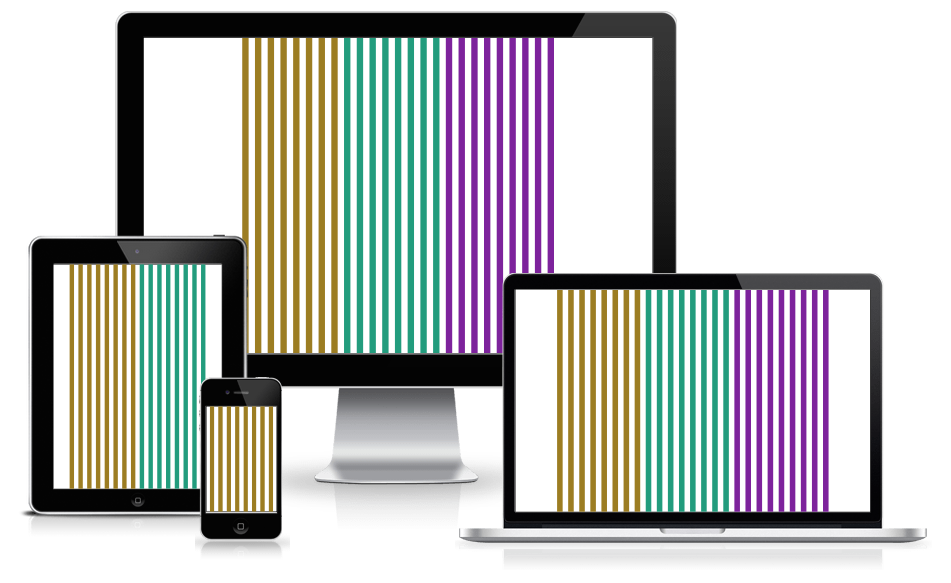
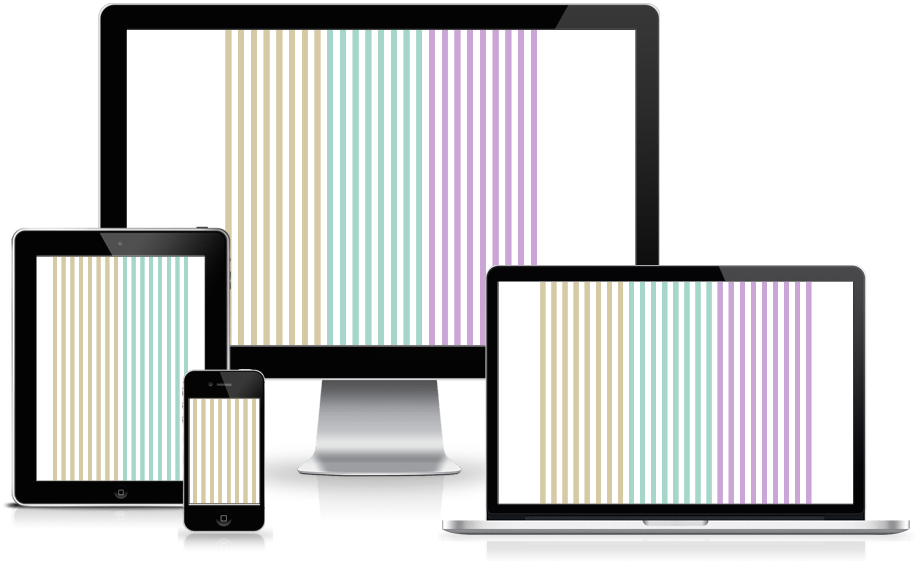
Edit showcase opacity

diff --git a/demo/showcase.html b/demo/showcase.html
@@ -10,54 +10,63 @@
             margin: 0;
             padding: 0;
         }
+        .showcase {
+            width: 100%;
+            height: 100%;
+            position: fixed;
+            top: 0;
+            left: 0;
+        }
         .demo {
             background: #9c7d22;
+            opacity: .4;
             height: 100vh;
         }
-            .demo--lap {
+            .demo--alt {
                 background: #229c7d;
             }
-            .demo--desk {
+            .demo--alt2 {
                 background: #7d229c;
             }
     </style>
 </head>
 <body>
-    <div class="wrapper">
-        <div class="grid"><!--
-            Always visible columns
-            --><div class="grid__item e-1--palm"><div class="demo"></div></div><!--
-            --><div class="grid__item e-1--palm"><div class="demo"></div></div><!--
-            --><div class="grid__item e-1--palm"><div class="demo"></div></div><!--
-            --><div class="grid__item e-1--palm"><div class="demo"></div></div><!--
-            --><div class="grid__item e-1--palm"><div class="demo"></div></div><!--
-            --><div class="grid__item e-1--palm"><div class="demo"></div></div><!--
-            --><div class="grid__item e-1--palm"><div class="demo"></div></div><!--
-            --><div class="grid__item e-1--palm"><div class="demo"></div></div><!--
+    <div class="showcase">
+        <div class="wrapper">
+            <div class="grid"><!--
+                Always visible columns
+                --><div class="grid__item e-1--palm"><div class="demo"></div></div><!--
+                --><div class="grid__item e-1--palm"><div class="demo"></div></div><!--
+                --><div class="grid__item e-1--palm"><div class="demo"></div></div><!--
+                --><div class="grid__item e-1--palm"><div class="demo"></div></div><!--
+                --><div class="grid__item e-1--palm"><div class="demo"></div></div><!--
+                --><div class="grid__item e-1--palm"><div class="demo"></div></div><!--
+                --><div class="grid__item e-1--palm"><div class="demo"></div></div><!--
+                --><div class="grid__item e-1--palm"><div class="demo"></div></div><!--
 
-            Columns visible on tablet and desktop
-            --><div class="grid__item e-0--palm e-1"><div class="demo demo--lap"></div></div><!--
-            --><div class="grid__item e-0--palm e-1"><div class="demo demo--lap"></div></div><!--
-            --><div class="grid__item e-0--palm e-1"><div class="demo demo--lap"></div></div><!--
-            --><div class="grid__item e-0--palm e-1"><div class="demo demo--lap"></div></div><!--
-            --><div class="grid__item e-0--palm e-1"><div class="demo demo--lap"></div></div><!--
-            --><div class="grid__item e-0--palm e-1"><div class="demo demo--lap"></div></div><!--
-            --><div class="grid__item e-0--palm e-1"><div class="demo demo--lap"></div></div><!--
-            --><div class="grid__item e-0--palm e-1"><div class="demo demo--lap"></div></div><!--
+                Columns visible on tablet and desktop
+                --><div class="grid__item e-0--palm e-1"><div class="demo demo--alt"></div></div><!--
+                --><div class="grid__item e-0--palm e-1"><div class="demo demo--alt"></div></div><!--
+                --><div class="grid__item e-0--palm e-1"><div class="demo demo--alt"></div></div><!--
+                --><div class="grid__item e-0--palm e-1"><div class="demo demo--alt"></div></div><!--
+                --><div class="grid__item e-0--palm e-1"><div class="demo demo--alt"></div></div><!--
+                --><div class="grid__item e-0--palm e-1"><div class="demo demo--alt"></div></div><!--
+                --><div class="grid__item e-0--palm e-1"><div class="demo demo--alt"></div></div><!--
+                --><div class="grid__item e-0--palm e-1"><div class="demo demo--alt"></div></div><!--
 
-            Columns visible only on desktop
-            --><div class="grid__item e-0--palm e-0 e-1--desk"><div class="demo demo--desk"></div></div><!--
-            --><div class="grid__item e-0--palm e-0 e-1--desk"><div class="demo demo--desk"></div></div><!--
-            --><div class="grid__item e-0--palm e-0 e-1--desk"><div class="demo demo--desk"></div></div><!--
-            --><div class="grid__item e-0--palm e-0 e-1--desk"><div class="demo demo--desk"></div></div><!--
-            --><div class="grid__item e-0--palm e-0 e-1--desk"><div class="demo demo--desk"></div></div><!--
-            --><div class="grid__item e-0--palm e-0 e-1--desk"><div class="demo demo--desk"></div></div><!--
-            --><div class="grid__item e-0--palm e-0 e-1--desk"><div class="demo demo--desk"></div></div><!--
-            --><div class="grid__item e-0--palm e-0 e-1--desk"><div class="demo demo--desk"></div></div><!--
-            --><div class="grid__item e-0--palm e-0 e-1--desk"><div class="demo demo--desk"></div></div><!--
-        --></div>
+                Columns visible only on desktop
+                --><div class="grid__item e-0--palm e-0 e-1--desk"><div class="demo demo--alt2"></div></div><!--
+                --><div class="grid__item e-0--palm e-0 e-1--desk"><div class="demo demo--alt2"></div></div><!--
+                --><div class="grid__item e-0--palm e-0 e-1--desk"><div class="demo demo--alt2"></div></div><!--
+                --><div class="grid__item e-0--palm e-0 e-1--desk"><div class="demo demo--alt2"></div></div><!--
+                --><div class="grid__item e-0--palm e-0 e-1--desk"><div class="demo demo--alt2"></div></div><!--
+                --><div class="grid__item e-0--palm e-0 e-1--desk"><div class="demo demo--alt2"></div></div><!--
+                --><div class="grid__item e-0--palm e-0 e-1--desk"><div class="demo demo--alt2"></div></div><!--
+                --><div class="grid__item e-0--palm e-0 e-1--desk"><div class="demo demo--alt2"></div></div><!--
+                --><div class="grid__item e-0--palm e-0 e-1--desk"><div class="demo demo--alt2"></div></div><!--
+            --></div>
+        </div>
     </div>
-
 <script src="lib/emerald/js/emerald.js"></script>
 </body>
 </html>
